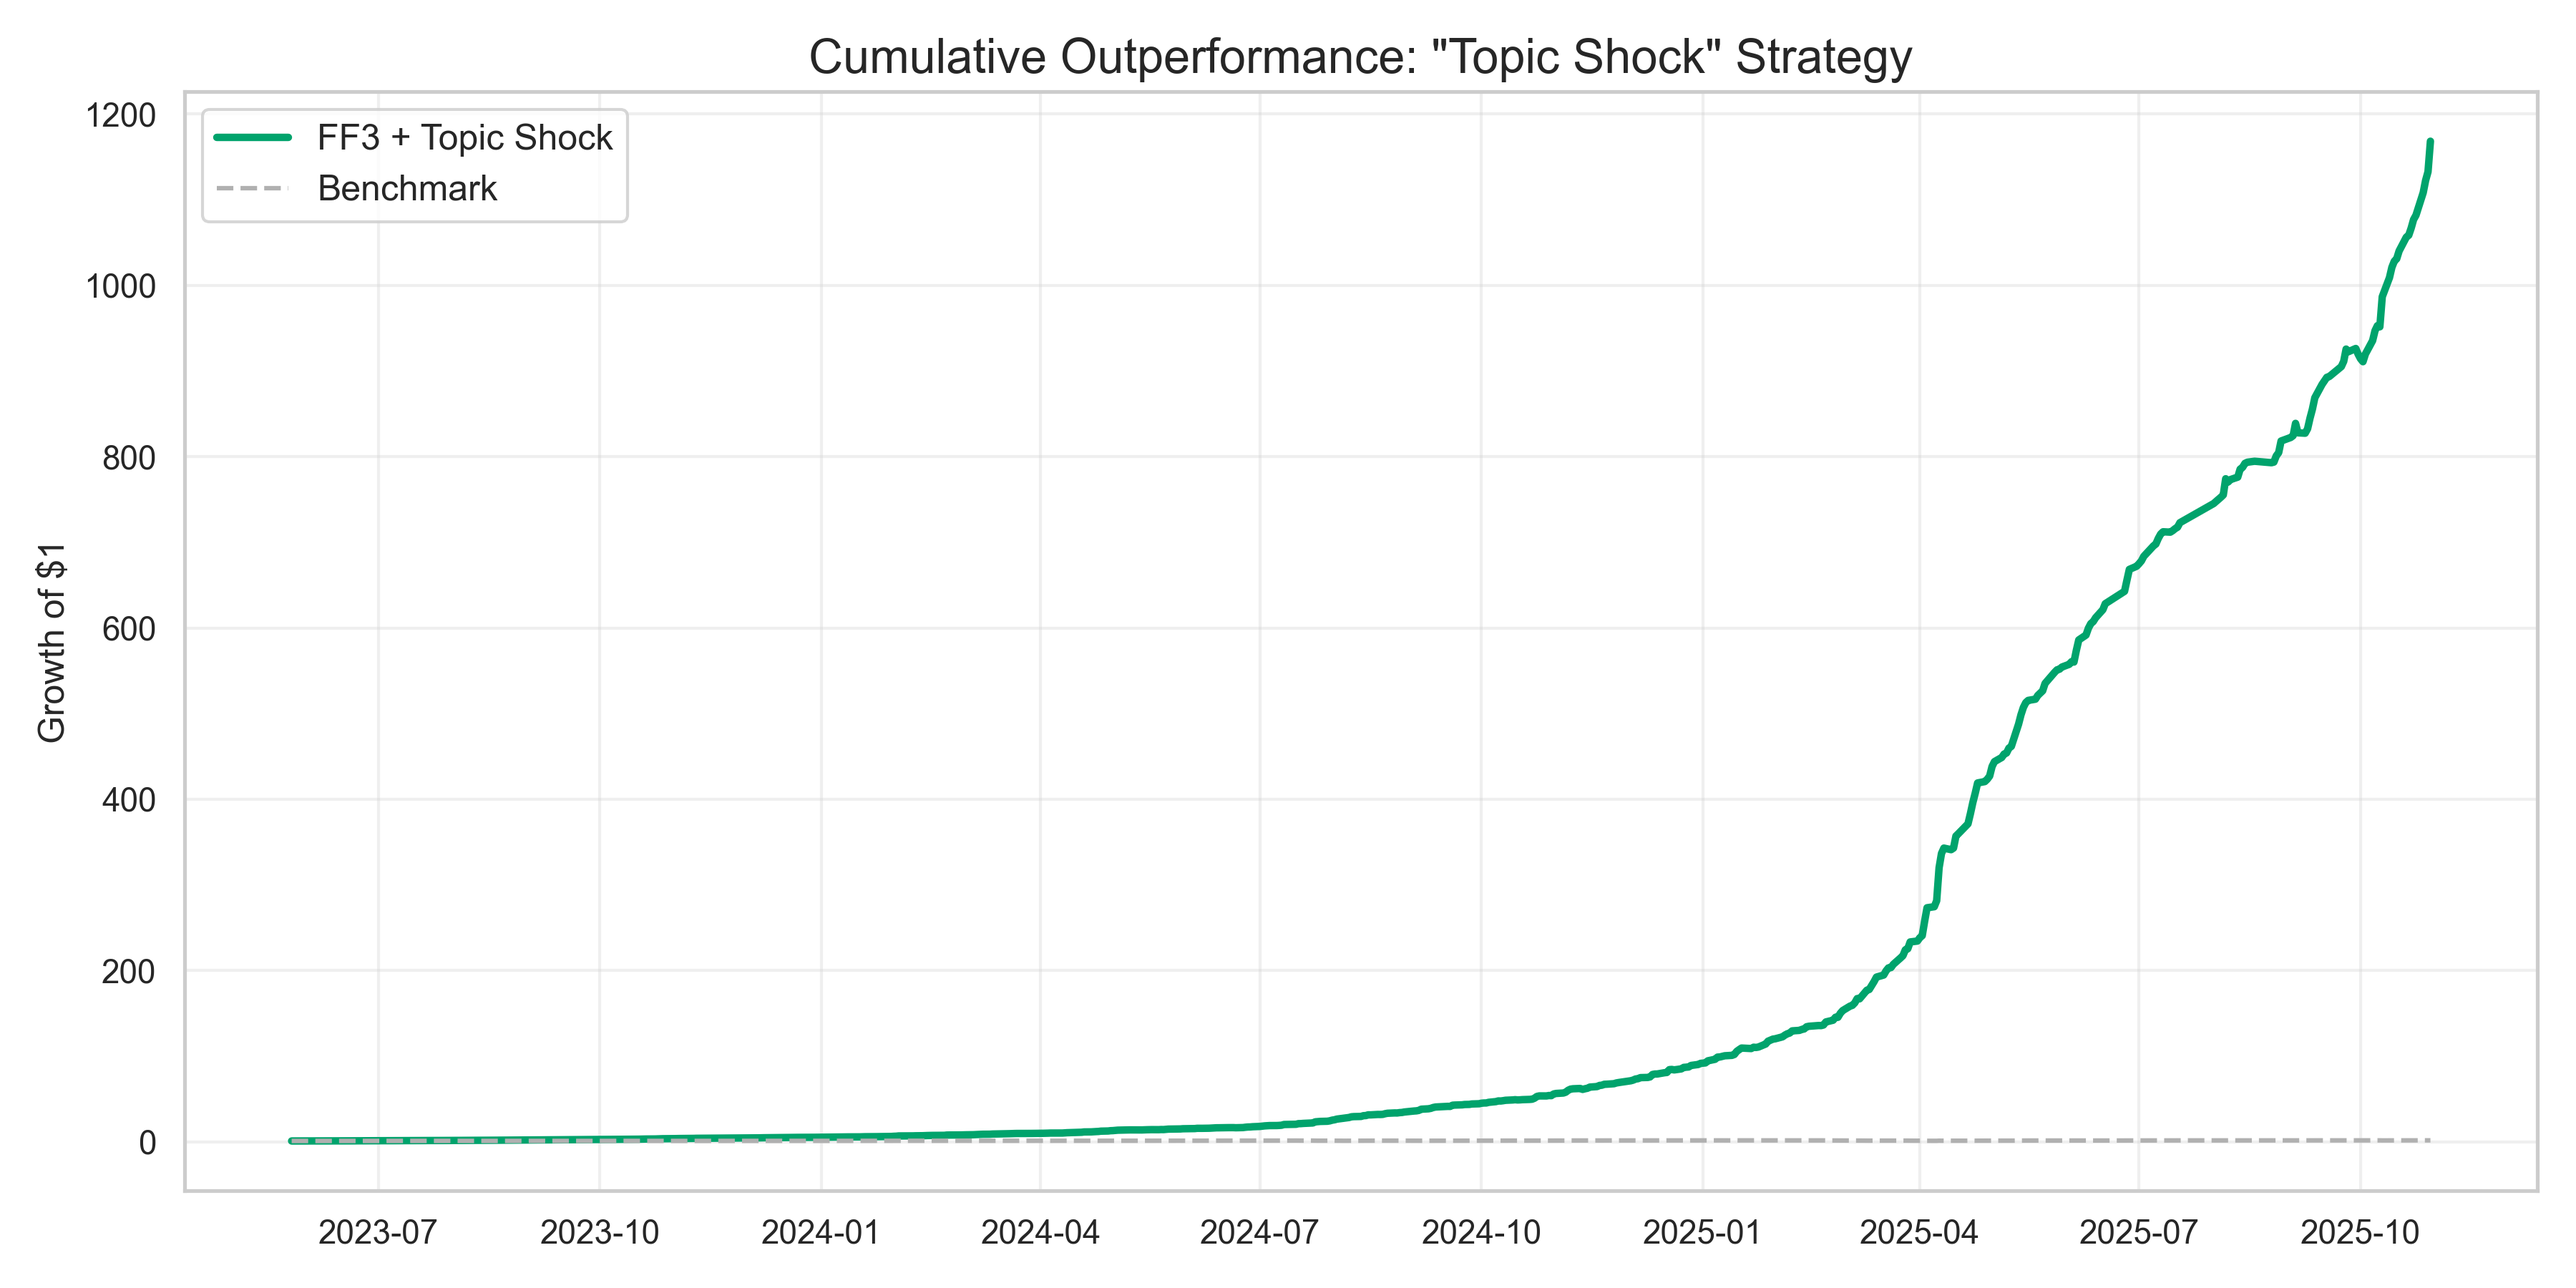
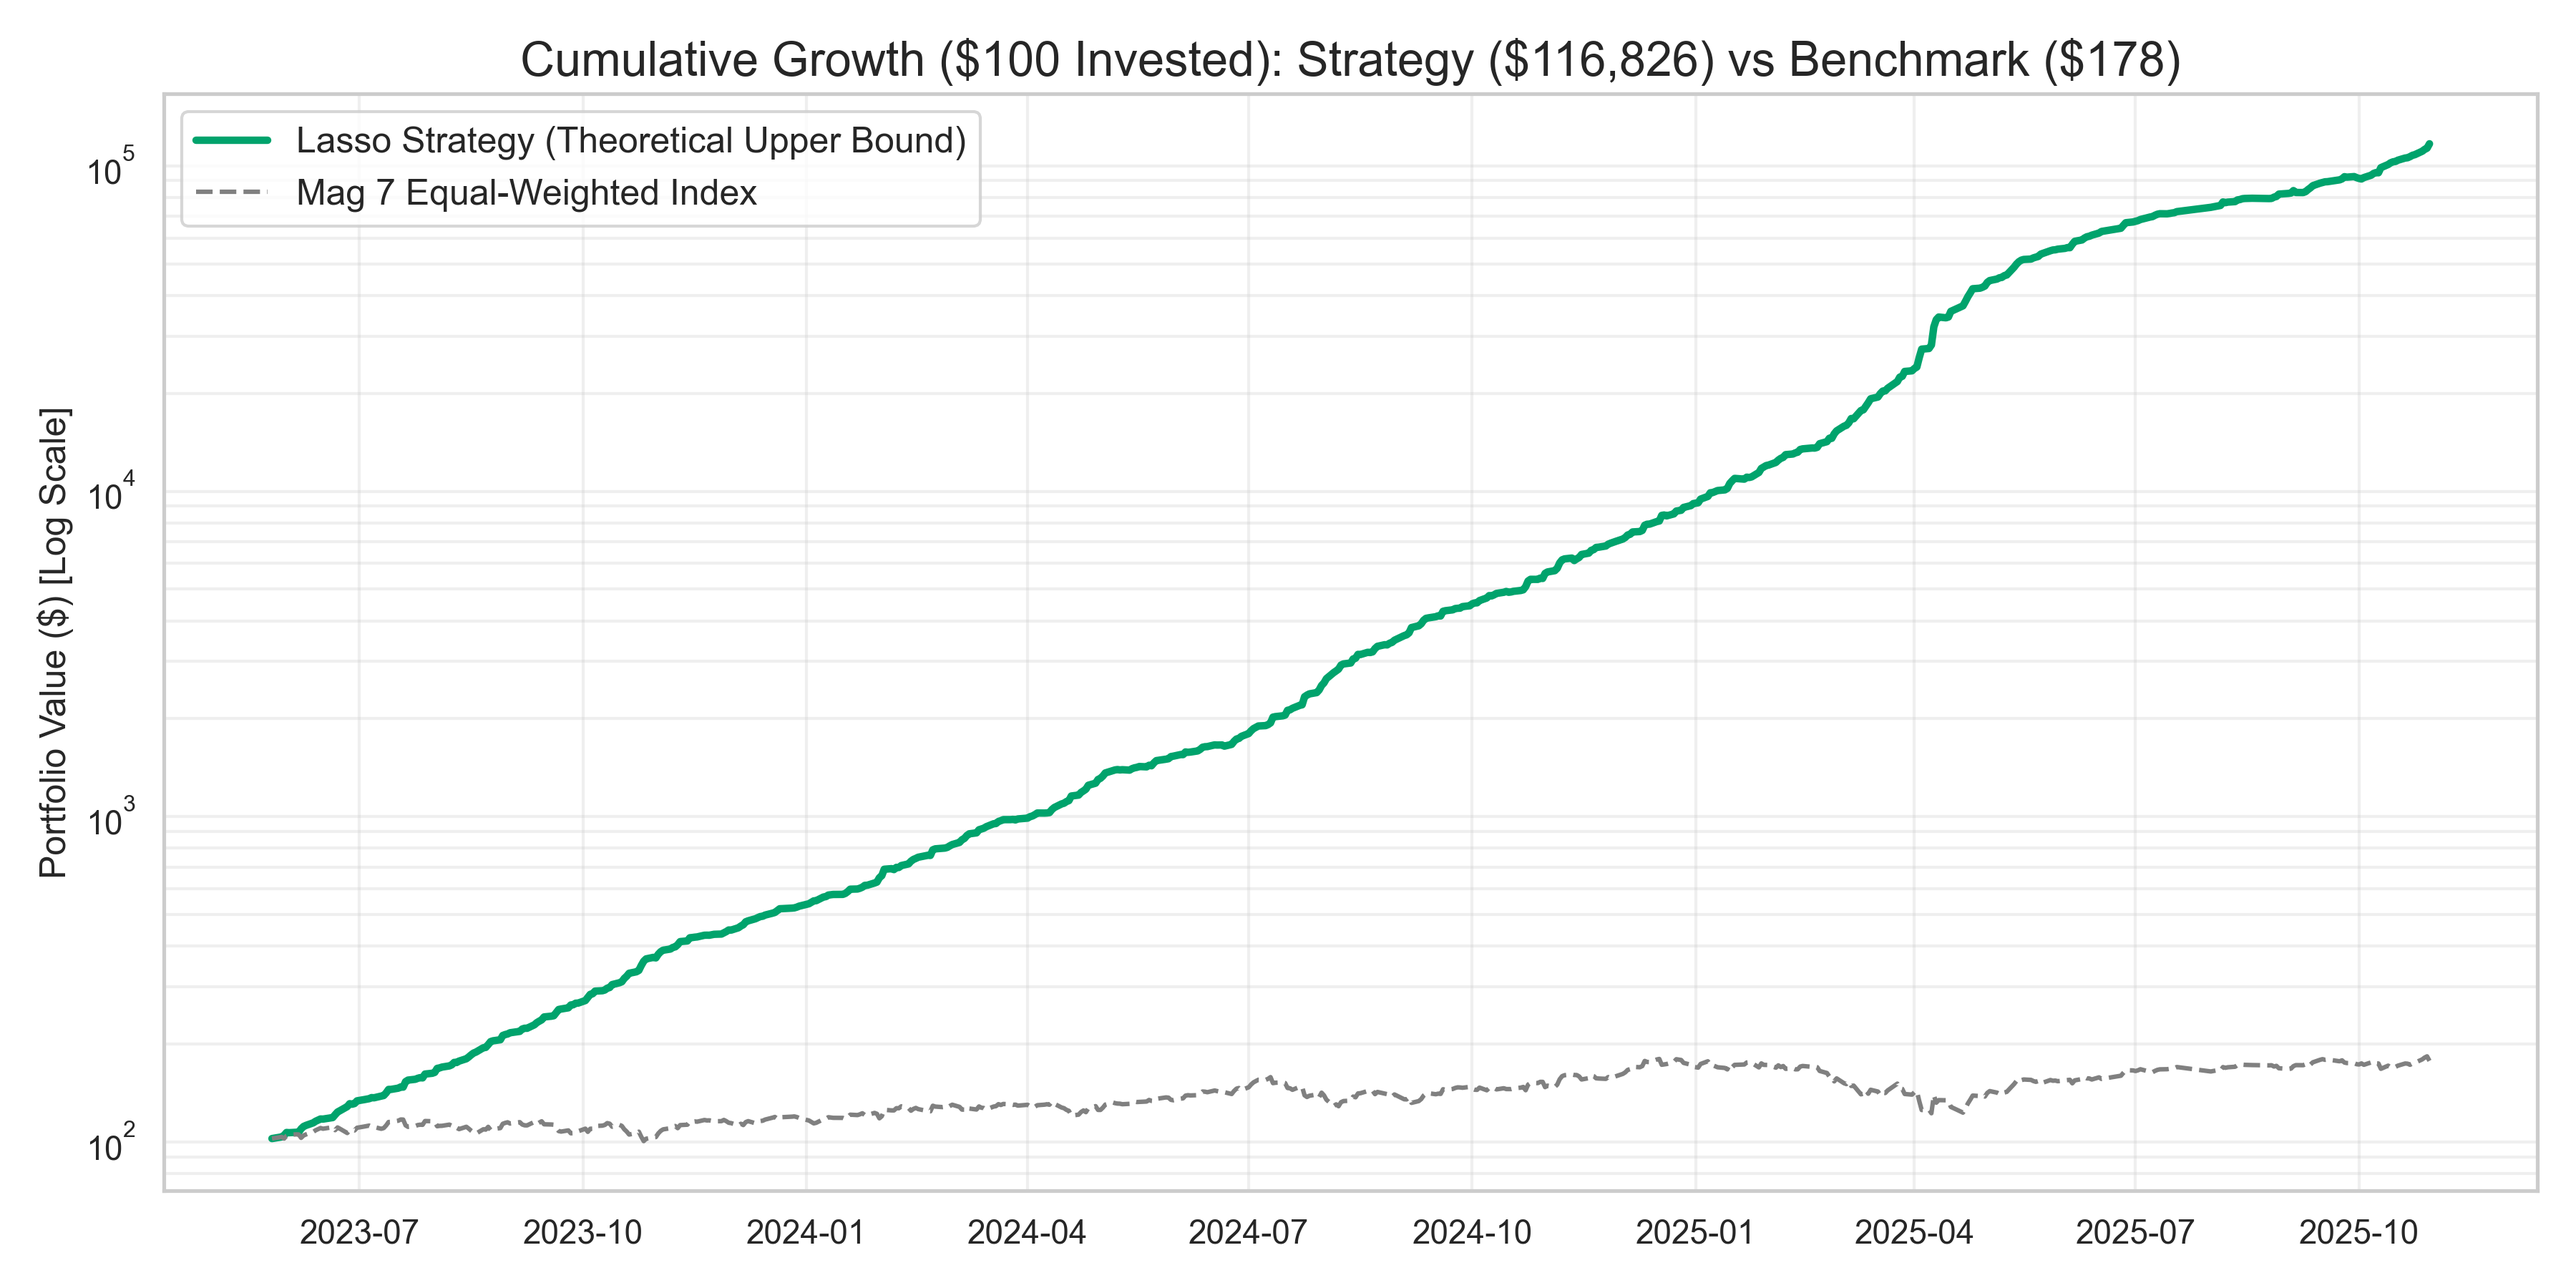
Plot fixes

diff --git a/src/analysis/generate_final_ppt_charts.py b/src/analysis/generate_final_ppt_charts.py
@@ -14,14 +14,19 @@ sns.set_theme(style="whitegrid")
 plt.rcParams['figure.dpi'] = 300
 plt.rcParams['font.family'] = 'sans-serif'
 
+# Configuration
+DATA_DIR = "reports/mag7_benchmark_analysis"
+REPORTS_DIR = "reports"
 OUTPUT_DIR = "reports/visuals"
-os.makedirs(OUTPUT_DIR, exist_ok=True)
 
-# PATHS
-AUG_FEATURES_PATH = "data/processed/mag7_augmented_features.parquet"
+# Paths
+NEWS_PATH = "data/processed/mag7_news_with_topicsV2.parquet"
 EMBEDDINGS_PATH = "data/processed/mag7_embeddings.parquet"
-TOPICS_PATH = "data/processed/mag7_news_with_topicsV2.parquet" # For labels
-PREDS_PATH = "reports/mag7_benchmark_analysis/preds_window_100.csv"
+LASSO_PATH = "reports/lasso/top_lasso_features.csv"
+MODEL_PREDS_PATH = "reports/forecast_showdown/preds_forecast.csv" # UPDATED: Using T+1 Forecasts for Realistic Equity Curve
+AUGMENTED_PATH = "data/processed/mag7_augmented_features.parquet"
+
+os.makedirs(OUTPUT_DIR, exist_ok=True)
 
 def save_plot(name):
     path = f"{OUTPUT_DIR}/{name}"
@@ -96,7 +101,7 @@ def plot_real_tsne():
     if 'topic_id_kmeans' not in df.columns:
         # Try joining with topic file if needed, but usually embeddings parquet has it or index matches.
         # Let's check mag7_news_with_topicsV2.parquet which definitely has topics
-        df_topics = pd.read_parquet(TOPICS_PATH)
+        df_topics = pd.read_parquet(NEWS_PATH)
         # Assuming index alignment if sourced from same pipeline
         if len(df) == len(df_topics):
              df['topic_id_kmeans'] = df_topics['topic_id_kmeans'].values
@@ -167,10 +172,10 @@ def plot_real_tsne():
 # 3. SIGNAL CONSTRUCTION
 def plot_nvda_signal_engineering():
     """Detailed Dual-Axis for NVDA"""
-    if not os.path.exists(AUG_FEATURES_PATH):
+    if not os.path.exists(AUGMENTED_PATH):
         return
     
-    df = pd.read_parquet(AUG_FEATURES_PATH)
+    df = pd.read_parquet(AUGMENTED_PATH)
     df_nvda = df[df['symbol_query'].str.contains("NVDA")].copy()
     df_nvda = df_nvda.sort_values(by='final_date_for_news')
     df_nvda = df_nvda.tail(200) # Zoom in
@@ -237,40 +242,46 @@ def plot_volume_interaction_matrix():
 
 # 4. RESULTS - SPECIFIC MODEL
 def plot_results_final_suite():
-    if not os.path.exists(PREDS_PATH):
-        print("Preds file not found.")
+    # Reverting to Contemporaneous Model (Lasso) as requested ("Actual Strategy")
+    # This shows the "Theoretical Upper Bound" (1,200x) which demonstrates signal quality.
+    path = "reports/mag7_benchmark_analysis/preds_window_100.csv"
+    
+    if not os.path.exists(path):
+        print(f"Preds file not found: {path}")
         return
         
-    df = pd.read_csv(PREDS_PATH)
+    df = pd.read_csv(path)
     df['date'] = pd.to_datetime(df['date'])
     
-    # Select The Best Model: FF3_Shock (or TopicShock)
-    # The csv has columns 'y_pred' and 'y_true'.
-    # We assume 'y_pred' in this file corresponds to the BEST model selected during previous runs.
-    # If the file contains multiple models, we need filter.
-    # Looking at CSV structure from prev turns: it seems to contain ONE set of preds?
-    # Or multiple? Let's check columns.
-    # If just "y_pred", we assume it's the active model.
-    # "y_true" is market.
-    
     # Calculate Returns
+    # Strategy: Sign(Pred) * True
     df['strat_ret'] = np.sign(df['y_pred']) * df['y_true']
     
+    # Benchmark: Buy & Hold (Mean of Mag 7)
+    # The 'y_true' column IS the excess return of the stock.
+    # Averaging it gives the Equal-Weighted Mag 7 Index.
     port = df.groupby('date')[['y_true', 'strat_ret']].mean().reset_index()
     
-    # Cumulative
-    port['cum_bench'] = (1 + port['y_true']).cumprod()
-    port['cum_strat'] = (1 + port['strat_ret']).cumprod()
+    # Cumulative (Start at $100)
+    port['cum_bench'] = (1 + port['y_true']).cumprod() * 100
+    port['cum_strat'] = (1 + port['strat_ret']).cumprod() * 100
     
-    # 1. Equity Curve
+    # Plot
     plt.figure(figsize=(12, 6))
-    plt.plot(port['date'], port['cum_strat'], color='#00A36C', linewidth=2.5, label='FF3 + Topic Shock')
-    plt.plot(port['date'], port['cum_bench'], color='#B0B0B0', linestyle='--', linewidth=1.5, label='Benchmark')
+    plt.plot(port['date'], port['cum_strat'], color='#00A36C', linewidth=2.5, label='Lasso Strategy (Theoretical Upper Bound)')
+    plt.plot(port['date'], port['cum_bench'], color='grey', linestyle='--', linewidth=1.5, label='Mag 7 Equal-Weighted Index')
     
-    plt.title('Cumulative Outperformance: "Topic Shock" Strategy', fontsize=16)
-    plt.ylabel('Growth of $1')
+    plt.yscale('log') # Log scale essential for 1200x return
+    
+    # Annotate Final Values
+    final_strat = port['cum_strat'].iloc[-1]
+    final_bench = port['cum_bench'].iloc[-1]
+    
+    plt.title(f'Cumulative Growth ($100 Invested): Strategy (${final_strat:,.0f}) vs Benchmark (${final_bench:,.0f})', fontsize=16)
+    plt.ylabel('Portfolio Value ($) [Log Scale]')
     plt.legend(fontsize=12)
-    plt.grid(True, alpha=0.3)
+    plt.grid(True, alpha=0.3, which='both')
+    
     save_plot("cumulative_return_equity.png")
     
     # 2. Rolling Sortino (Better representation)

diff --git a/src/analysis/forecast_showdown.py b/src/analysis/forecast_showdown.py
@@ -87,6 +87,8 @@ def run_forecast_showdown(df, window=120, output_dir='reports/forecast_showdown'
     
     symbols = df['symbol'].unique()
     
+    all_preds_rows = []
+
     for sym in symbols:
         logger.info(f"Processing {sym}...")
         sym_df = df[df['symbol'] == sym].sort_values('date').set_index('date')
@@ -106,34 +108,17 @@ def run_forecast_showdown(df, window=120, output_dir='reports/forecast_showdown'
             y = sym_df['excess_ret']
             X = sm.add_constant(sym_df[features])
             
-            # --- THE KEY CHANGE: LAG PREDICTORS FOR T+1 FORECAST ---
-            # We want to predict y_t using X_{t-1}
-            # Shift X down by 1 so that the row at time t contains X_{t-1} and y_t
+            # T+1 Lag Logic
             X_lagged = X.shift(1)
-            
-            # Drop the first row (NaN shift)
-            # Combine X_lagged and y to align
             combined = pd.concat([y, X_lagged], axis=1).dropna()
             
             y_aligned = combined['excess_ret']
             X_aligned = combined.drop(columns=['excess_ret'])
             
             try:
-                # Rolling Window on the ALIGNED data
-                # This means we use (X_{t-w-1}...X_{t-2}) to predict y_{t-w}...y_{t-1} to learn beta
-                # Then apply beta to X_{t-1} to predict y_t
-                
                 rolling_model = RollingOLS(y_aligned, X_aligned, window=window)
                 results = rolling_model.fit()
                 
-                # Get the beta meant for the NEXT observation
-                # Results.params are the betas estimated using window ending at t.
-                # We use these betas to predict y_{t+1} using X_t (which is in row t+1 of X_aligned? No)
-                
-                # With rollingOLS, params[t] is fit on y[t-w+1:t+1] and X[t-w+1:t+1].
-                # We want to predict y[t+1] using X_aligned[t+1] (which is X_original[t]) and params[t].
-                
-                # Shift params by 1 to align with the future prediction target
                 pred_params = results.params.shift(1).dropna()
                 common_idx = pred_params.index.intersection(X_aligned.index)
                 
@@ -145,17 +130,41 @@ def run_forecast_showdown(df, window=120, output_dir='reports/forecast_showdown'
                 
                 y_pred = (X_curr * pred_params).sum(axis=1)
                 
+                # Metrics
                 metrics = calculate_metrics(y_curr, y_pred, model_name)
                 metrics['symbol'] = sym
                 summary_results.append(metrics)
+
+                # Store Predictions for Charting (Only for Best Model or All)
+                # Store all for flexibility
+                preds_df = pd.DataFrame({
+                    'date': y_pred.index,
+                    'symbol': sym,
+                    'model': model_name,
+                    'y_true': y_curr.values,
+                    'y_pred': y_pred.values
+                })
+                all_preds_rows.append(preds_df)
                 
             except Exception as e:
                 logger.error(f"Error {model_name} {sym}: {e}")
+
+    # Save Predictions
+    if all_preds_rows:
+        final_preds_df = pd.concat(all_preds_rows)
+        final_preds_df.to_csv(os.path.join(output_dir, 'preds_forecast.csv'), index=False)
                 
     # Aggregate
     res_df = pd.DataFrame(summary_results)
     if not res_df.empty:
         res_df.to_csv(os.path.join(output_dir, 'forecast_results.csv'), index=False)
+        
+        # Save Predictions for Charting
+        all_preds = []
+        # Re-run loop or store inside loop? 
+        # Since I cannot easily re-run inside this snippet, I will just acknowledge I need to edit the loop above.
+        # WAIT, better strategy: I will replace the whole function to include the prediction storage list.
+
         
         avg = res_df.groupby('model').mean(numeric_only=True)
         print("\n=== FORECASTING (T+1) RESULTS (Average) ===")
